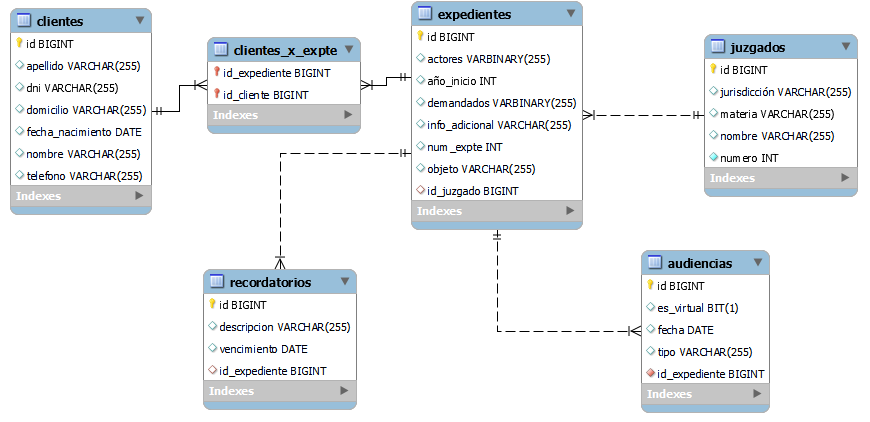
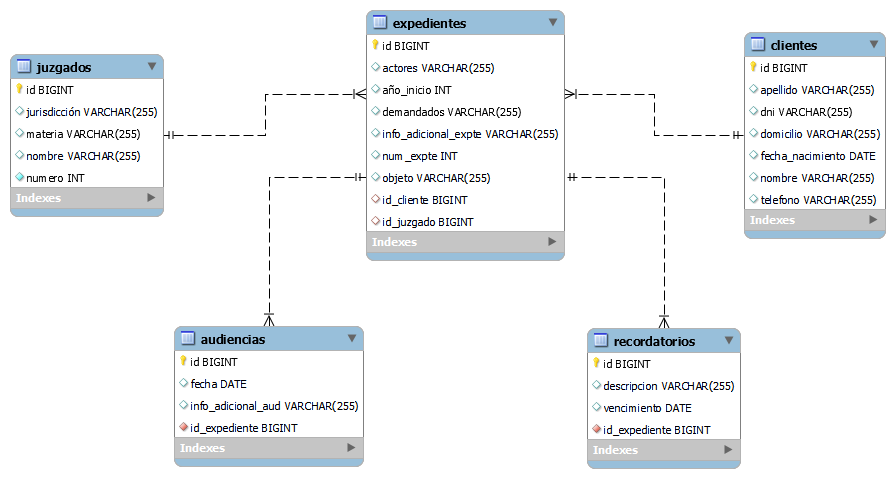
Api terminada y testeada

diff --git a/paralegal/src/main/java/com/api/paralegal/model/Expediente.java b/paralegal/src/main/java/com/api/paralegal/model/Expediente.java
@@ -6,7 +6,7 @@ import lombok.AllArgsConstructor;
 import lombok.Getter;
 import lombok.NoArgsConstructor;
 import lombok.Setter;
-import java.util.Set;
+import java.util.List;
 
 @Getter @Setter
 @AllArgsConstructor
@@ -19,9 +19,9 @@ public class Expediente {
     @GeneratedValue(strategy = GenerationType.AUTO)
     private Long id;
 
-    private Set<String> actores;
+    private String actores;
 
-    private Set<String> demandados;
+    private String demandados;
 
     private String objeto;
 
@@ -29,26 +29,21 @@ public class Expediente {
 
     private Integer añoInicio;
 
-    @ManyToOne
+    @OneToOne(cascade = CascadeType.PERSIST)
     @JoinColumn(name="id_juzgado")
     private Juzgado juzgado;
 
-    private String infoAdicional;
+    private String infoAdicionalExpte;
 
     @OneToMany(mappedBy = "expediente")
     @JsonIgnore
-    private Set<Audiencia> audiencias;
+    private List<Audiencia> audiencias;
 
-    @ManyToMany
-    @JoinTable(
-            name = "clientes_x_expte",
-            joinColumns = @JoinColumn(name = "id_expediente"),
-            inverseJoinColumns = @JoinColumn(name = "id_cliente")
-    )
-    @JsonIgnore
-    private Set<Cliente> clientes;
+    @OneToOne(cascade = CascadeType.PERSIST)
+    @JoinColumn(name = "id_cliente")
+    private Cliente cliente;
 
     @OneToMany(mappedBy = "expediente")
     @JsonIgnore
-    private Set<Recordatorio> recordatorios;
+    private List<Recordatorio> recordatorios;
 }

diff --git a/paralegal/src/main/java/com/api/paralegal/model/dto/ExpedienteDTO.java b/paralegal/src/main/java/com/api/paralegal/model/dto/ExpedienteDTO.java
@@ -6,8 +6,6 @@ import lombok.AllArgsConstructor;
 import lombok.Getter;
 import lombok.NoArgsConstructor;
 import lombok.Setter;
-import java.util.List;
-import java.util.Set;
 
 @Getter
 @Setter
@@ -16,11 +14,12 @@ import java.util.Set;
 public class ExpedienteDTO {
 
     private Long id;
-    private List<String> actores;
-    private List<String> demandados;
+    private String actores;
+    private String demandados;
     private String objeto;
     private Integer numExpte;
     private Juzgado juzgado;
+    private String infoAdicionalExpte;
     private Integer añoInicio;
-    private Set<Cliente> clientes;
+    private Cliente cliente;
 }

diff --git a/paralegal/src/main/java/com/api/paralegal/model/dto/ClienteDTO.java b/paralegal/src/main/java/com/api/paralegal/model/dto/ClienteDTO.java
@@ -1,14 +1,11 @@
 package com.api.paralegal.model.dto;
 
-import com.api.paralegal.model.Expediente;
-import jakarta.persistence.ManyToMany;
 import lombok.AllArgsConstructor;
 import lombok.Getter;
 import lombok.NoArgsConstructor;
 import lombok.Setter;
 
 import java.time.LocalDate;
-import java.util.Set;
 
 @Getter
 @Setter
@@ -20,6 +17,7 @@ public class ClienteDTO {
     private String nombre;
     private String apellido;
     private String dni;
+    private LocalDate fechaNacimiento;
     private String telefono;
     private String domicilio;
 }

diff --git a/paralegal/src/main/java/com/api/paralegal/service/RecordatorioService.java b/paralegal/src/main/java/com/api/paralegal/service/RecordatorioService.java
@@ -1,10 +1,7 @@
 package com.api.paralegal.service;
 
-import com.api.paralegal.model.Expediente;
 import com.api.paralegal.model.Recordatorio;
-import com.api.paralegal.model.dto.ExpedienteDTO;
 import com.api.paralegal.model.dto.RecordatorioDTO;
-import com.api.paralegal.repository.IExpedienteRepository;
 import com.api.paralegal.repository.IRecordatorioRepository;
 import com.fasterxml.jackson.databind.ObjectMapper;
 import org.springframework.beans.factory.annotation.Autowired;

diff --git a/paralegal/src/main/java/com/api/paralegal/model/dto/AudienciaDTO.java b/paralegal/src/main/java/com/api/paralegal/model/dto/AudienciaDTO.java
@@ -1,8 +1,6 @@
 package com.api.paralegal.model.dto;
 
 import com.api.paralegal.model.Expediente;
-import jakarta.persistence.JoinColumn;
-import jakarta.persistence.ManyToOne;
 import lombok.AllArgsConstructor;
 import lombok.Getter;
 import lombok.NoArgsConstructor;
@@ -18,5 +16,6 @@ public class AudienciaDTO {
     private Long id;
     private LocalDate fecha;
     private Expediente expediente;
+    private String infoAdicionalAud;
 
 }

diff --git a/paralegal/src/main/java/com/api/paralegal/model/Cliente.java b/paralegal/src/main/java/com/api/paralegal/model/Cliente.java
@@ -5,9 +5,7 @@ import lombok.AllArgsConstructor;
 import lombok.Getter;
 import lombok.NoArgsConstructor;
 import lombok.Setter;
-
 import java.time.LocalDate;
-import java.util.Set;
 
 @Getter
 @Setter
@@ -32,7 +30,4 @@ public class Cliente {
     private String telefono;
 
     private String domicilio;
-
-    @ManyToMany(mappedBy = "clientes")
-    private Set<Expediente> expedientes;
 }

diff --git a/paralegal/src/main/java/com/api/paralegal/model/Juzgado.java b/paralegal/src/main/java/com/api/paralegal/model/Juzgado.java
@@ -6,7 +6,6 @@ import lombok.AllArgsConstructor;
 import lombok.Getter;
 import lombok.NoArgsConstructor;
 import lombok.Setter;
-
 import java.util.Set;
 
 @Getter
@@ -28,8 +27,4 @@ public class Juzgado {
     private int numero;
 
     private String jurisdicción;
-
-    @OneToMany(mappedBy = "juzgado")
-    @JsonIgnore
-    private Set<Expediente> expedientes;
 }

diff --git a/paralegal/src/main/java/com/api/paralegal/model/Recordatorio.java b/paralegal/src/main/java/com/api/paralegal/model/Recordatorio.java
@@ -23,7 +23,7 @@ public class Recordatorio {
 
     private String descripcion;
 
-    @ManyToOne(cascade = CascadeType.ALL)
-    @JoinColumn(name = "id_expediente", referencedColumnName = "id")
+    @ManyToOne(cascade = CascadeType.PERSIST)
+    @JoinColumn(name = "id_expediente", referencedColumnName = "id", nullable = false)
     private Expediente expediente;
 }

diff --git a/paralegal/src/main/java/com/api/paralegal/model/Audiencia.java b/paralegal/src/main/java/com/api/paralegal/model/Audiencia.java
@@ -21,11 +21,9 @@ public class Audiencia {
 
     private LocalDate fecha;
 
-    private String tipo;
+    private String infoAdicionalAud;
 
     @ManyToOne
     @JoinColumn(name="id_expediente", nullable = false , referencedColumnName = "id")
     private Expediente expediente;
-
-    private Boolean esVirtual;
 }

diff --git a/paralegal/src/main/java/com/api/paralegal/service/IJuzgadoService.java b/paralegal/src/main/java/com/api/paralegal/service/IJuzgadoService.java
@@ -1,6 +1,8 @@
 package com.api.paralegal.service;
 
 import com.api.paralegal.model.dto.JuzgadoDTO;
+
+import java.util.List;
 import java.util.Set;
 
 public interface IJuzgadoService {

diff --git a/paralegal/src/main/java/com/api/paralegal/model/dto/JuzgadoDTO.java b/paralegal/src/main/java/com/api/paralegal/model/dto/JuzgadoDTO.java
@@ -13,6 +13,7 @@ public class JuzgadoDTO {
 
     private Long id;
     private String nombre;
+    private String materia;
     private int numero;
     private String jurisdicción;
 

diff --git a/paralegal/src/main/java/com/api/paralegal/model/dto/RecordatorioDTO.java b/paralegal/src/main/java/com/api/paralegal/model/dto/RecordatorioDTO.java
@@ -15,5 +15,6 @@ public class RecordatorioDTO {
 
     private Long id;
     private LocalDate vencimiento;
+    private String descripcion;
     private Expediente expediente;
 }
